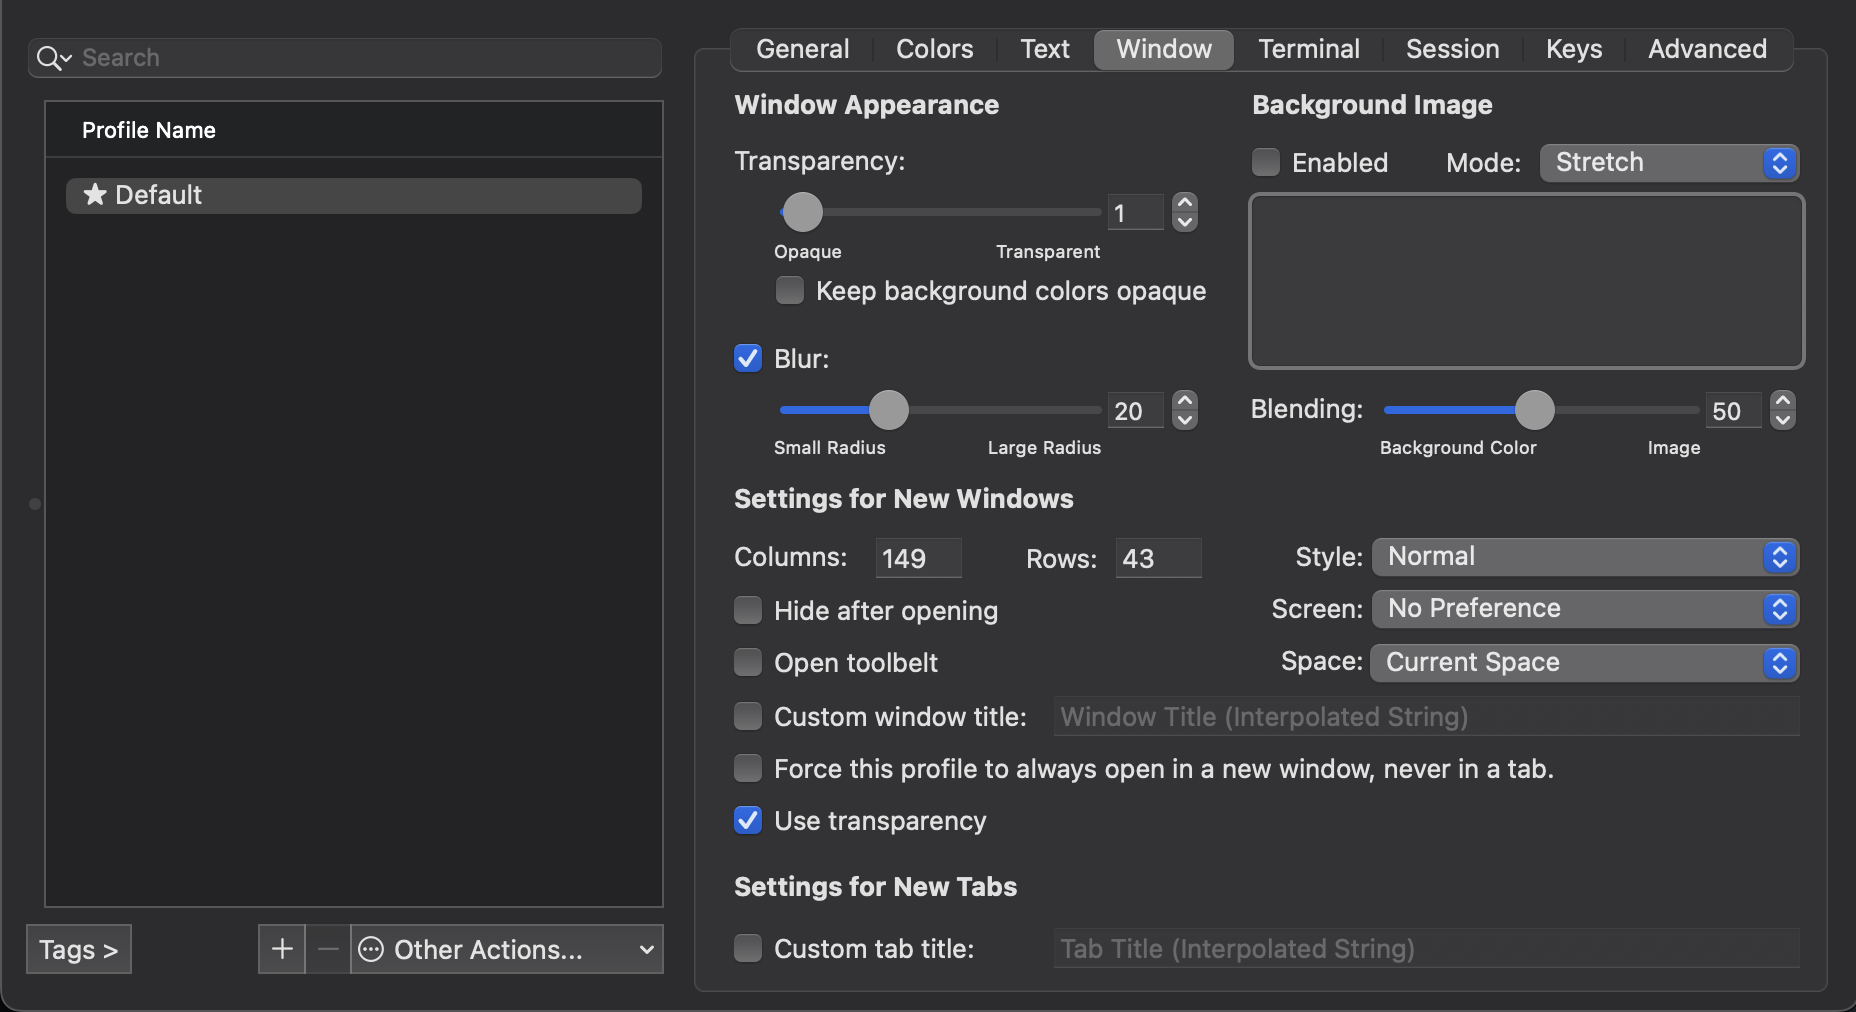
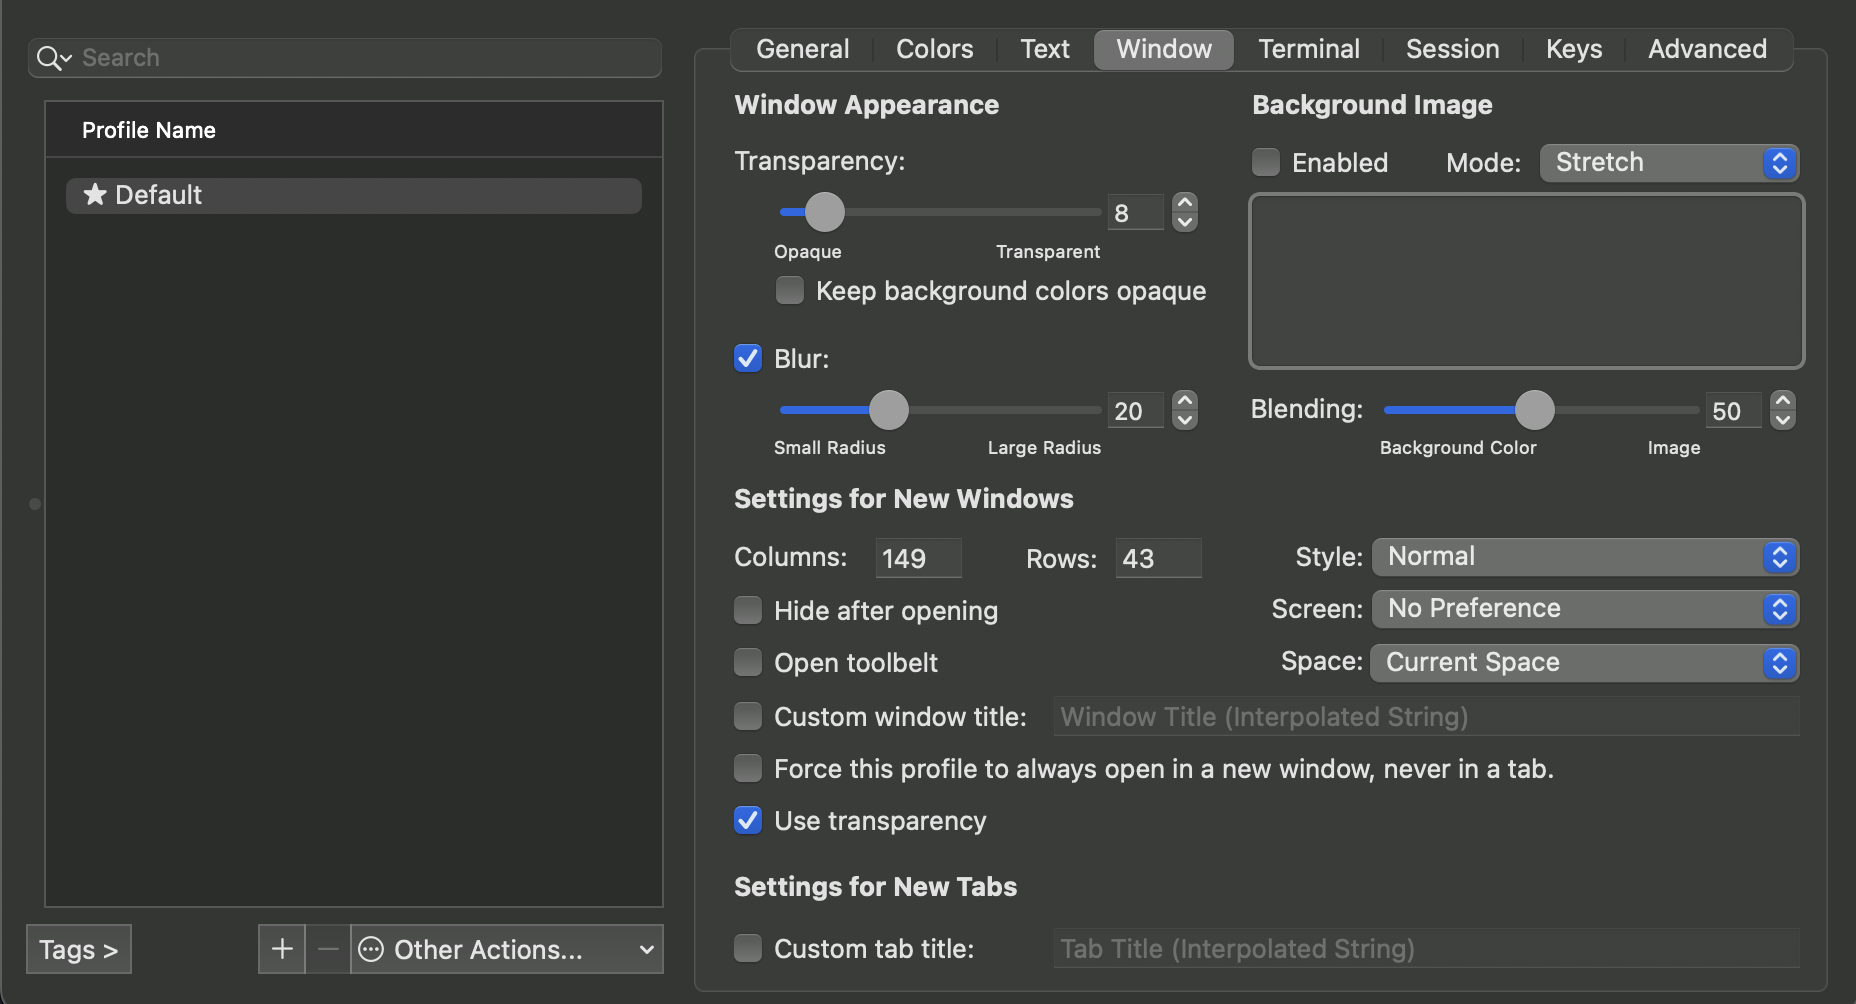
feat update neovim colorscheme, doc update iterm configuration in readme

diff --git a/README.md b/README.md
@@ -78,7 +78,7 @@ brew install peco
 
 ### Neovim color
 
-- [x] [kepano/flexoki](https://github.com/kepano/flexoki), [kepano/flexoki-neovim](https://github.com/kepano/flexoki-neovim) - Currently using this color theme
+- [x] [rose-pine/neovim](https://github.com/rose-pine/neovim)
 
 - [ ] can also check: <https://github.com/topics/neovim-colorscheme>
 